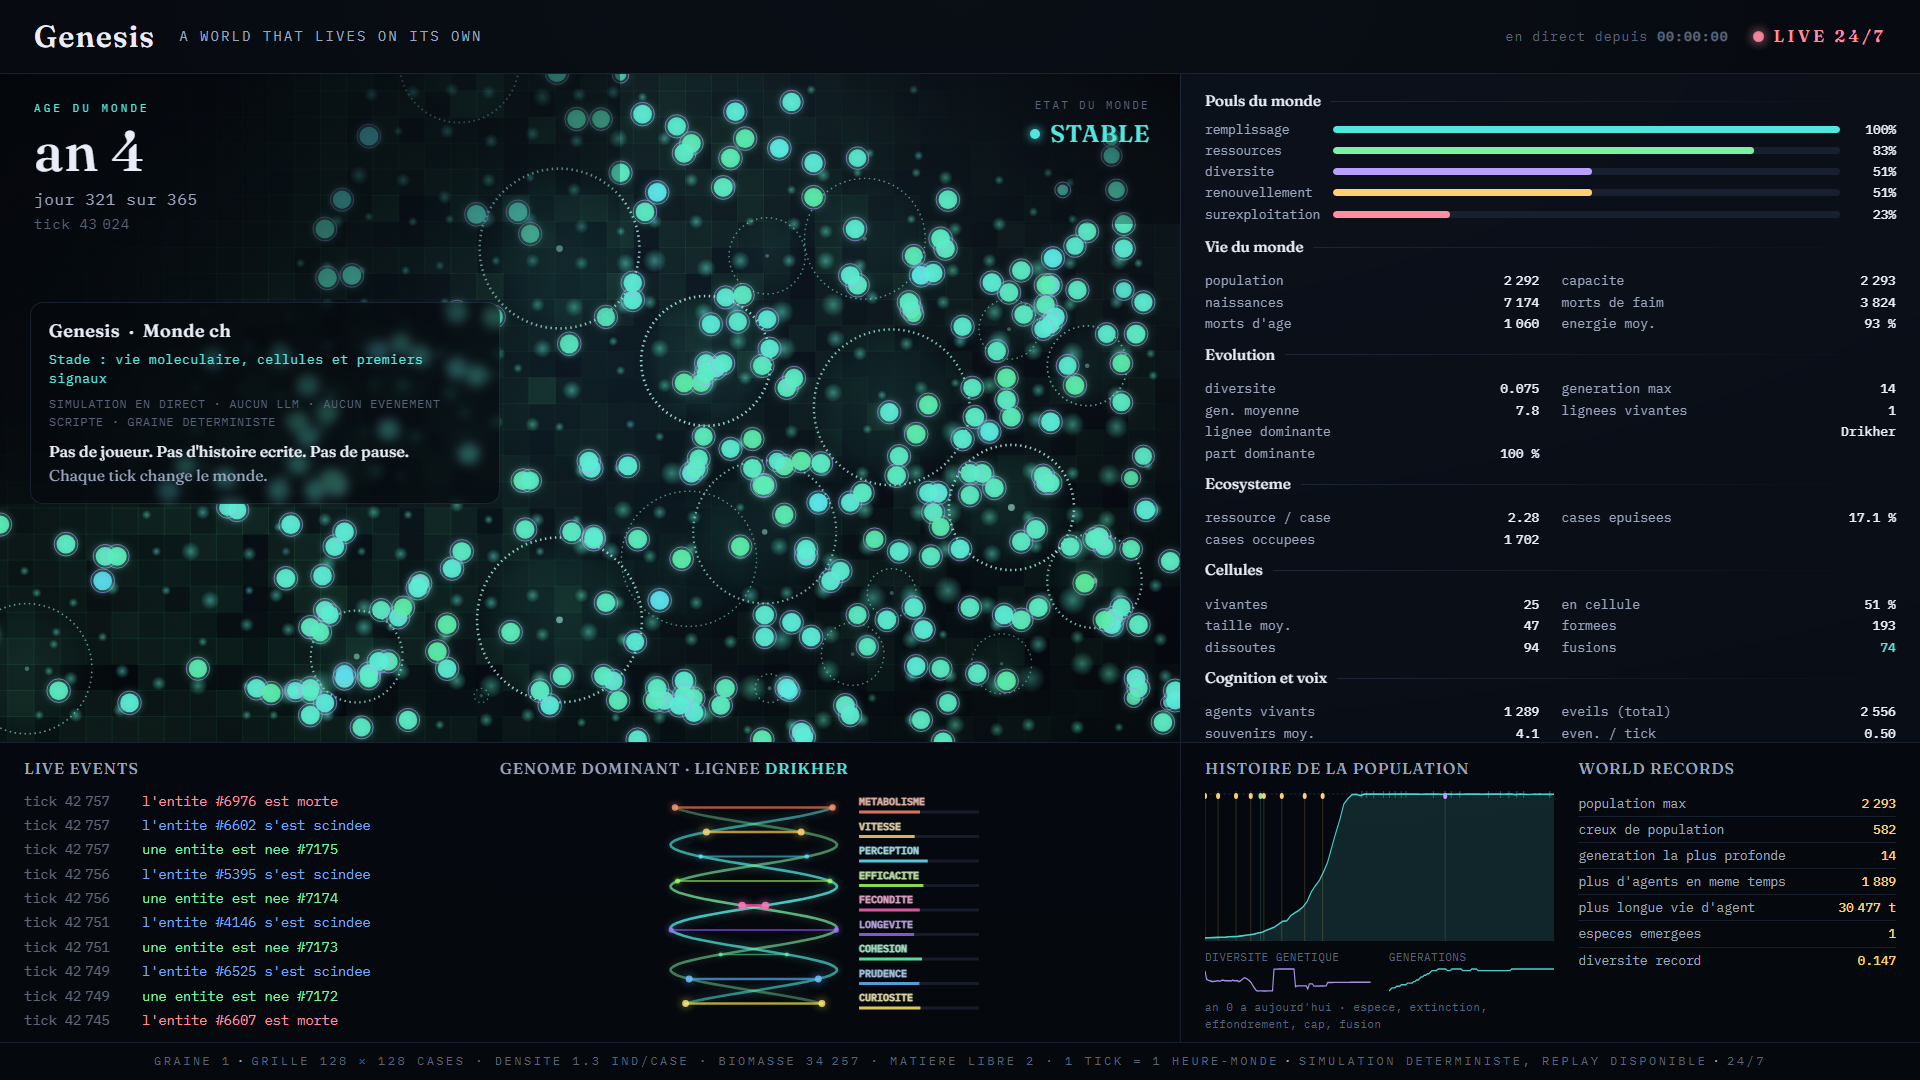
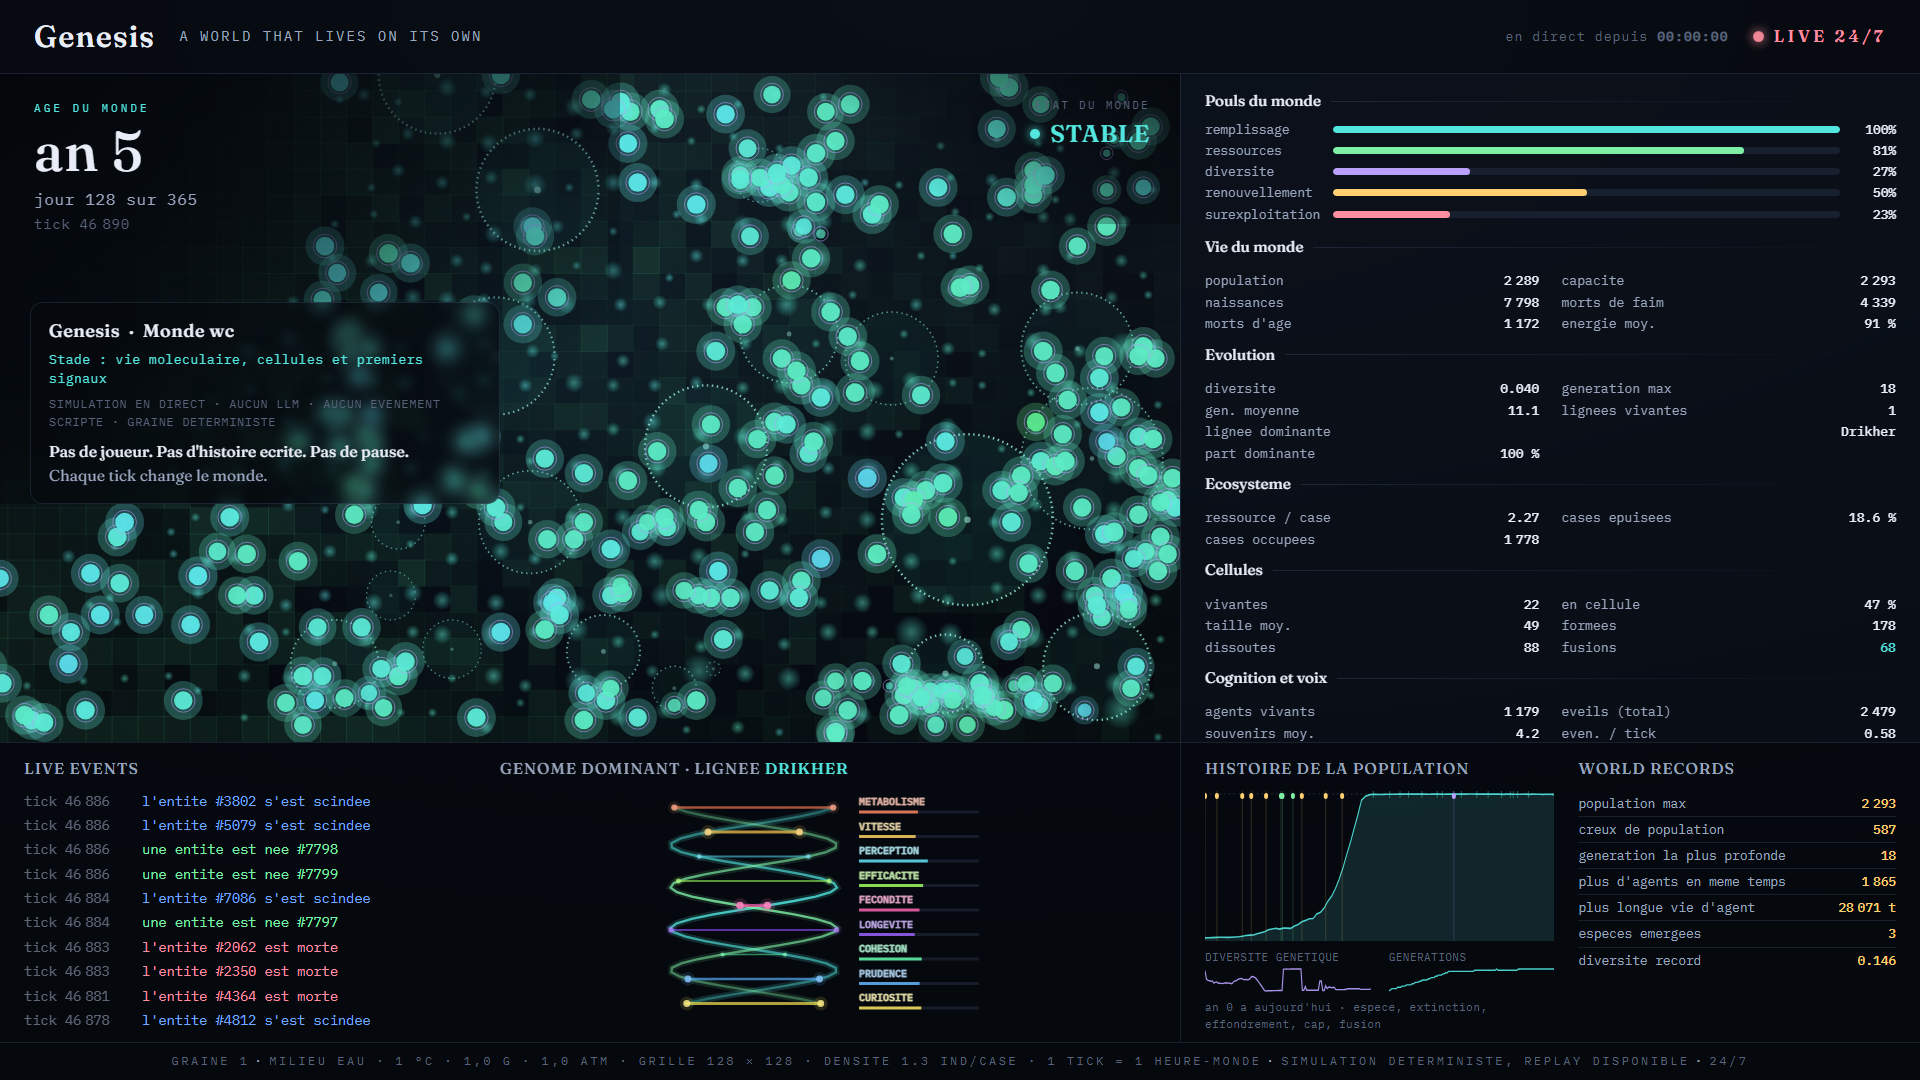
climat : temperature et gravite agissent enfin sur la simulation
`PlanetCfg` existait depuis longtemps mais n'etait qu'affichee. Elle
compte maintenant :

- Temperature : `base_burn *= 1 + temp_metab_slope * |temperature_c -
  temp_optimal_c|`. Un monde loin de son optimum thermique coute plus
  cher a habiter : plus de morts de faim, selection plus dure.
- Gravite : `move_cost *= gravity`. Un monde lourd favorise les corps
  lents et economes.

Nouvelles cles `[planet]` : `temp_optimal_c` (15), `temp_metab_slope`
(0,012 ; `0` = inerte, bouton d'A/B). Le defaut (15 °C = optimum, 1 g)
ne change rien : aucune regression, pas de bump de schema (config
seulement, pas d'etat). `worlds/w1` et `w4` rejouent deterministe OK
sans regeneration.

A/B graine 1, 50k ticks :
- monde a 2 °C : diversite genetique -34 % (0,099 -> 0,065), famine +8 %.
  Le surcout thermique homogeneise le genome.
- monde a 35 °C : famine +24 %, morts d'age -27 % (on meurt de faim avant
  de vieillir), 20 generations au lieu de 17, vitesse moyenne +36 %. Un
  monde frenetique qui evolue vite.
- monde a 1,6 g : famine +10 %, efficacite poussee vers le haut.

Meme graine, autre planete, autre vie.

`LiveState` gagne temperature_c / medium / gravity / pressure_atm ;
le bandeau du bas de l'overlay est mene par le climat (milieu, °C, g,
atm). Test `climate_shapes_the_world`. Determinisme 1 vs 8 threads
byte-identique (config defaut et config froide), 22 tests verts.

diff --git a/crates/genesis-cli/src/stream_template.html b/crates/genesis-cli/src/stream_template.html
@@ -568,12 +568,16 @@ function applyLive(L) {
   sc.className = 'statuschip ' + (map[L.status] || 'stable');
   document.getElementById('statusv').textContent = L.status || 'STABLE';
   document.getElementById('domname').textContent = L.dominant_lineage || '--';
-  // bandeau du bas : les constantes et grandeurs reelles du monde (pas de chiffre invente)
+  // bandeau du bas : les vraies constantes physiques du monde et ses grandeurs (aucun
+  // chiffre invente ; la temperature agit sur le metabolisme, la gravite sur le deplacement)
   const dens = L.occupied_cells ? (L.population / L.occupied_cells).toFixed(1) : '0';
+  const g = (L.gravity != null ? L.gravity : 1).toFixed(1).replace('.', ',');
+  const atm = (L.pressure_atm != null ? L.pressure_atm : 1).toFixed(1).replace('.', ',');
+  const tc = (L.temperature_c != null ? L.temperature_c : 15).toFixed(0);
   document.getElementById('barenv').textContent =
-    'grille ' + (L.grid ? L.grid[0] + ' × ' + L.grid[1] : '--') + ' cases  ·  densite ' + dens +
-    ' ind/case  ·  biomasse ' + fr(Math.round(L.biomass || 0)) + '  ·  matiere libre ' +
-    fr(Math.round(L.free_matter || 0)) + '  ·  1 tick = 1 heure-monde';
+    'milieu ' + (L.medium || 'eau') + '  ·  ' + tc + ' °C  ·  ' + g + ' g  ·  ' + atm + ' atm  ·  ' +
+    'grille ' + (L.grid ? L.grid[0] + ' × ' + L.grid[1] : '--') + '  ·  densite ' + dens +
+    ' ind/case  ·  1 tick = 1 heure-monde';
 
   // pouls
   const P = L.pulse || {};

diff --git a/crates/genesis-core/src/sim.rs b/crates/genesis-core/src/sim.rs
@@ -288,7 +288,9 @@ pub fn tick(world: &mut WorldState, cfg: &SimConfig) -> Vec<Event> {
     drop(_sp.take()); _sp = prof::Span::start(2);
     // -- Phase 4, mouvement. Chaque entite ne touche qu'elle-meme : parallele direct sur
     // le `Vec`, qui se decoupe parfaitement.
-    let move_cost = cfg.metabolism.move_cost;
+    // Le climat : la gravite rencherit le deplacement (un monde lourd favorise les corps
+    // lents et economes). `gravity = 1` (Terre) ne change rien.
+    let move_cost = cfg.metabolism.move_cost * cfg.planet.gravity.max(0.0);
     let sw = space.width as f32;
     let sh = space.height as f32;
     // Biologie de fond (tranche 8) : un corps use se traine.
@@ -319,7 +321,13 @@ pub fn tick(world: &mut WorldState, cfg: &SimConfig) -> Vec<Event> {
     // (`colony_support`), mange un peu moins et fatigue beaucoup moins la case partagee.
     let energy_ceiling = cfg.reproduction.energy_threshold * 2.0;
     let support_cap = coh.support_cap.max(0.001);
-    let base_burn = cfg.metabolism.base_burn;
+    // Le climat : un monde loin de la temperature optimale coute plus cher a habiter. Le
+    // surcout frappe la depense de base de toutes les entites, egalement. `temperature_c ==
+    // temp_optimal_c` (defaut) ou `temp_metab_slope == 0` : aucun effet.
+    let temp_factor = 1.0
+        + cfg.planet.temp_metab_slope.max(0.0)
+            * (cfg.planet.temperature_c - cfg.planet.temp_optimal_c).abs();
+    let base_burn = cfg.metabolism.base_burn * temp_factor;
     let eat_rate = cfg.metabolism.eat_rate;
     let strain_per_harvest = cfg.environment.strain_per_harvest;
     // Cognition (0.0.3) : seuils de choc, ecrits pour toutes les entites (graine d'un souvenir).

diff --git a/crates/genesis-core/tests/invariants.rs b/crates/genesis-core/tests/invariants.rs
@@ -560,6 +560,41 @@ fn a_world_knows_which_engine_made_it() {
 }
 
 #[test]
+fn climate_shapes_the_world() {
+    // Le climat (schema : config seulement, pas d'etat) agit vraiment sur le monde : un
+    // monde loin de sa temperature optimale voit plus de morts de faim. Effet inerte au
+    // defaut (`temperature_c == temp_optimal_c`), donc pas de regression. Deterministe.
+    let mut warm = SimConfig::default();
+    warm.planet.temperature_c = 15.0;
+    warm.planet.temp_optimal_c = 15.0;
+    let mut cold = warm.clone();
+    cold.planet.temperature_c = 0.0; // 15 degres sous l'optimum
+
+    let run = |cfg: &SimConfig| {
+        let mut w = WorldState::new(1, cfg);
+        for _ in 0..30_000 {
+            let _ = tick(&mut w, cfg);
+            if w.entities.is_empty() {
+                break;
+            }
+        }
+        (w.deaths_starvation, w.population())
+    };
+    let (warm_starv, warm_pop) = run(&warm);
+    let (cold_starv, cold_pop) = run(&cold);
+
+    assert!(warm_pop > 100 && cold_pop > 100, "un des deux mondes s'est effondre");
+    assert!(
+        cold_starv > warm_starv,
+        "le froid ne coute rien : {cold_starv} morts de faim contre {warm_starv} au chaud"
+    );
+
+    // Deterministe : meme config, meme monde.
+    let (a, _) = run(&cold);
+    assert_eq!(a, cold_starv, "climat non deterministe");
+}
+
+#[test]
 fn cells_merge_when_membranes_overlap() {
     // Fusion de cellules (schema v15) : deux membranes stables qui se chevauchent et se
     // ressemblent fusionnent. Il s'en produit reellement (graine 1) ; le compteur cumule

diff --git a/crates/genesis-core/src/config.rs b/crates/genesis-core/src/config.rs
@@ -87,19 +87,29 @@ impl Default for WorldCfg {
 #[derive(Debug, Clone, Serialize, Deserialize)]
 #[serde(default)]
 pub struct PlanetCfg {
-    /// Temperature moyenne de l'environnement, en degres Celsius.
+    /// Temperature moyenne de l'environnement, en degres Celsius. Constante sur la vie du
+    /// monde. Un monde loin de `temp_optimal_c` coute plus cher a habiter (voir
+    /// `temp_metab_slope`) : plus de morts de faim, selection plus dure sur l'efficacite.
     pub temperature_c: f32,
+    /// Temperature a laquelle le metabolisme est le moins cher.
+    pub temp_optimal_c: f32,
+    /// Surcout metabolique par degre d'ecart a l'optimum, en fraction. `0` = la temperature
+    /// est inerte (bouton d'A/B). A 0,012 et 12 degres d'ecart : +14 % de depense de base.
+    pub temp_metab_slope: f32,
     /// Milieu dans lequel baigne la vie : "eau", "acide", "air", ...
     pub medium: String,
-    /// Gravite, en multiples de celle de la Terre.
+    /// Gravite, en multiples de celle de la Terre. Multiplie le cout du deplacement : un
+    /// monde lourd favorise les corps lents et economes, un monde leger l'inverse.
     pub gravity: f32,
-    /// Pression, en atmospheres.
+    /// Pression, en atmospheres. Affichee, sans effet mecanise pour l'instant.
     pub pressure_atm: f32,
 }
 impl Default for PlanetCfg {
     fn default() -> Self {
         PlanetCfg {
             temperature_c: 15.0,
+            temp_optimal_c: 15.0,
+            temp_metab_slope: 0.012,
             medium: "eau".to_string(),
             gravity: 1.0,
             pressure_atm: 1.0,

diff --git a/crates/genesis-cli/src/live.rs b/crates/genesis-cli/src/live.rs
@@ -52,6 +52,12 @@ pub struct LiveState {
     pub grid: [u32; 2],
     /// Matiere structurelle libre (briques disponibles pour de nouveaux corps).
     pub free_matter: f32,
+    /// Le climat de la planete : temperature (degres Celsius), milieu, gravite (x Terre),
+    /// pression (atmospheres). Constants sur la vie du monde.
+    pub temperature_c: f32,
+    pub medium: String,
+    pub gravity: f32,
+    pub pressure_atm: f32,
 
     // -- Vie du monde
     pub population: u32,
@@ -481,6 +487,10 @@ pub fn write_live(
         status,
         grid: [world.space.width, world.space.height],
         free_matter: st.free_matter,
+        temperature_c: cfg.planet.temperature_c,
+        medium: cfg.planet.medium.clone(),
+        gravity: cfg.planet.gravity,
+        pressure_atm: cfg.planet.pressure_atm,
         population: st.population,
         births: st.births_total,
         deaths_starv: st.deaths_starvation,

diff --git a/BIBLE/00_INDEX.md b/BIBLE/00_INDEX.md
@@ -136,15 +136,20 @@ avantageuse. Sans environnement changeant, l'asexué gagne toujours.
 ### Paramètres planétaires (constantes du monde, pas des pressions dynamiques)
 
 Section `[planet]` de la config : **elle existe depuis 2026-09-01** (`PlanetCfg` :
-`temperature_c`, `medium`, `gravity`, `pressure_atm`). En 0.0.1 elle est seulement
-**affichée** dans le bandeau du lecteur, aucune influence sur la simulation (choix
-délibéré : ne pas rejouer le whack-a-mole d'équilibrage). Les jalons suivants la branchent :
+`temperature_c`, `medium`, `gravity`, `pressure_atm`). **Branchée sur la sim le 2026-09-02
+(température et gravité).** La température module la dépense métabolique de base :
+`base_burn *= 1 + temp_metab_slope * |temperature_c - temp_optimal_c|`. La gravité multiplie
+`move_cost`. Le défaut (15 °C = optimum, 1 g) est **inerte**, aucune régression ;
+`temp_metab_slope = 0` désactive l'effet thermique (bouton d'A/B). **A/B graine 1, 50k ticks :
+monde à 2 °C, diversité génétique -34 % (0,099 -> 0,065), morts de faim +8 % ; monde à 35 °C,
+morts de faim +24 %, morts d'âge -27 %, 20 générations au lieu de 17, vitesse moyenne +36 % ;
+monde à 1,6 g, morts de faim +10 %.** Une même graine sur une autre planète donne une autre
+vie. Config seulement, pas d'état, pas de bump de schéma. Test `climate_shapes_the_world`.
+Reste à brancher :
 
-- Température : module le métabolisme (courbe de performance thermique, froid et chaud
-  coûtent plus d'énergie).
 - Milieu (eau / acide / air) : change ce qui est comestible et l'efficacité métabolique.
-- Gravité : module `move_cost`, plafonne la taille corporelle (trait), contraint plus tard
-  les structures et le vol.
+- Gravité : plafonne aussi la taille corporelle (trait), contraindra plus tard les structures
+  et le vol.
 - Pression : efficacité métabolique, zones d'eau liquide, intensité de la météo, plus tard
   l'accès au feu donc à la technique.
 - Un cataclysme rare peut décaler ces constantes (volcanisme, impact).
@@ -226,6 +231,8 @@ Liste ouverte, tenue à jour au fil du projet (demande utilisateur, 2026-08-31 p
   - **Un monde qui ne s'arrete pas : `genesis continue` et `genesis serve` (2026-09-02).** `continue <monde> --ticks N` reprend depuis le dernier instantane et rejoue N ticks ; le journal et la serie temporelle continuent (verite du monde), la scene et les biographies sont refaites sur le segment recent (fenetre glissante de 500 frames). `serve <monde> [--rate ticks/s] [--port P] [--for T] [--step N]` : boucle continue qui avance par petits pas paces (environ une seconde de temps-monde par tour, defaut `--rate 30`, `0` = a fond), reecrit `live.json` / `scene.json` a chaque pas et les pages HTML lourdes au plus toutes les `--pages-every` secondes (defaut 15). `Sim::run` gagne `checkpoint: bool` (pas d'instantane a chaque pas en `serve`) ; `write_world_pages` ecrit un instantane au tick courant pour que meta, journal et instantane restent coherents (ce que `replay` compare). Verifie : `run(60k) + serve(--for 8k)` puis `replay` deterministe OK. `meta.json` gagne `agents_awoke_total` (cumule a travers les reprises). `lives.jsonl` borne (800 vies les plus longues), `notable.jsonl` reduit aux grands tournants (la chronique : genese, espece, extinction de lignee, effondrement, palier). A la reprise, le journal est tronque au dernier instantane : un arret brutal ne cree pas de doublons. Refactor : la boucle de tick est un `Sim`, la generation des pages un `write_world_pages`, le chargement pour reprise un `Resume` ; `AgentLife` / `LifeBeat` passent des `&'static str` a des enums (aller-retour JSON). Verifie : `run(40k)` et `run(25k)+continue(15k)` donnent un instantane final et un `events.jsonl` byte-identiques ; `run(10k)+serve(5 tranches)` rejoue deterministe OK. Aucun changement de schema moteur.
   - **L'overlay du direct 24/24 : `stream.html` (2026-09-02).** Un tableau de bord 1920x1080 pour une source navigateur OBS, servi par `genesis serve --port P` (`http://localhost:P/stream.html`). Une vue publique des donnees que Genesis produit deja, pas un systeme parallele : `live.rs` ecrit `live.json` (petit, relu toutes les 3 s), `scene.json` (derniere image du monde), `records.json` (records persistes et battus au fil de la vie : creux de population apres l'installation a 500, plus longue vie d'agent et sa lignee, especes emergees, diversite record...). `http_serve.rs` : serveur de fichiers minimal (GET, un thread par requete, anti remontee de chemin, `no-store` sur les JSON volatils). L'overlay : horloge de l'age du monde, panneau d'identite (stade dit sans le farder, aucun LLM, aucun evenement scripte, graine deterministe) et etat du monde (stable / en croissance / en declin / eteint, d'apres la tendance recente), pouls du monde (cinq jauges qui racontent : remplissage contre capacite, ressources restantes, diversite rapportee au record, part de naissances, surexploitation), quatre groupes de stats, fil qui garde toute la chronique en bas, histoire de la population avec sparklines diversite et generations, panneau des records avec banniere quand un record tombe, cartes d'evenements riches par type de tournant ; scene animee qui suit le centre de masse (cadrage cover). `stream_html.rs` embarque `live.json` / `scene.json` en repli pour un rendu correct en `file://`. Identite bioluminescente, Fraunces + IBM Plex Mono. Aucun changement moteur. Suit le brief `Stream_Twitch/` (qui sort du depot : notes de travail). Pas de faux evenement, pas de chiffre decoratif.
   - **`serve` tenable des mois sans surveillance (2026-09-02).** Trois fuites bornees pour un monde qui ne s'arrete jamais : les biographies terminees sont oubliees au fil de l'eau (au-dela de 200, pas seulement a la reprise ; le compte d'eveils passe par `Sim.awoke_count`), `series` est plafonnee a 4000 lignes (le quart le plus ancien decime), on ne garde que les 12 instantanes les plus recents (`WorldDir::prune_snapshots`). `events.jsonl` ne recoit plus les `ReplicationFailed` (~90 % du volume au plateau, deja dans `repro_blocked_materials`) : journal ~20x plus leger, monde identique (1 vs 8 threads byte-identique, `replay` OK). **Renaissance** : `serve --restart [--max-years Y]` fait repartir une nouvelle graine au meme endroit quand le monde meurt ou vieillit ; `records.json` se transmet de monde en monde (l'histoire sportive de la graine). `birth_world` factorise la genese. Reste : rotation du journal (pyramide temporelle) pour l'echelle des annees.
+
+- **Le climat branche sur la sim : temperature et gravite (2026-09-02).** `PlanetCfg` existait depuis longtemps (affichee seulement). Elle agit maintenant : `base_burn *= 1 + temp_metab_slope * |temperature_c - temp_optimal_c|` (un monde loin de son optimum thermique coute plus cher a habiter), `move_cost *= gravity` (un monde lourd favorise les corps lents et economes). Nouvelles cles `[planet]` : `temp_optimal_c` (15), `temp_metab_slope` (0,012 ; `0` = inerte, bouton d'A/B). Le defaut (15 °C = optimum, 1 g) ne change rien, aucune regression, pas de bump de schema (config seulement). **A/B graine 1, 50k ticks : monde a 2 °C, diversite -34 % (0,099 -> 0,065), famine +8 % ; monde a 35 °C, famine +24 %, morts d'age -27 % (on meurt de faim avant de vieillir), 20 generations au lieu de 17, vitesse moyenne +36 % ; monde a 1,6 g, famine +10 %.** Meme graine, autre planete, autre vie. `stream.html` : bandeau du bas mene par le climat (milieu, °C, g, atm). Test `climate_shapes_the_world`. Determinisme 1 vs 8 threads byte-identique (config par defaut et config froide), rejeu OK, 22 tests verts. Reste : le milieu (comestible / efficacite), la pression, la taille corporelle plafonnee par la gravite.
 
 - **0.0.2 tranche 2, etape 2b : la fusion de cellules (2026-09-02).** Schema v15. Deux cellules stables dont les membranes se chevauchent (`distance(centres) < (r1 + r2) * fuse_overlap`, 0,5) et dont les genomes moyens se ressemblent (`L1 < fuse_kin`, 0,9) n'en font plus qu'une : la plus grosse garde son id, sa date de formation et son histoire, la petite y disparait, ses membres sont retaggues. Aucune regle ne la nomme : c'est une condition geometrique et genetique que le monde franchit quand deux cellules parentes derivent l'une dans l'autre (T-7). Phase 5b (3b), sequentiel sans RNG, ordre stable (cellules triees par id), une fusion par cellule et par tick. `EventKind::CellsMerged { cell, absorbed, size }` (saillance 232), `WorldState.cells_merged_total`, bloc `[cells]` : `fuse` (A/B), `fuse_overlap`, `fuse_kin`. Chronique + carte plein ecran de l'overlay (teinte cyan, halo) + stat « fusions de cellules ». Test `cells_merge_when_membranes_overlap`. **A/B graine 1, 60k ticks, contre `fuse = false` : dissolutions de cellule -36 % (une petite cellule en peine fusionne au lieu de mourir), diversite genetique finale -12 % (0,059 -> 0,052 : la fusion consolide), famine +11 %, naissances +5 %.** La cellule devient un niveau d'organisation qui s'agrege. Effet reel et mesure (T-16). Determinisme byte-identique 1 vs 8 threads (graines 1 et 42), rejeu OK, 21 tests verts. `worlds/w2` : 120 fusions ; w4 : 83 ; w1 : 62 ; w3 : 0 (meurt trop tot). Reste de l'escalier : etape 2 (de-simulation des membres, bilan molecule) toujours deferee a 0.0.6.
 

diff --git a/BIBLE/03_DATA_MODEL.md b/BIBLE/03_DATA_MODEL.md
@@ -394,6 +394,14 @@ Toutes ces valeurs sont des points de départ, à mesurer et ajuster. Le princip
 partir avec des nombres, pas avec "configurable".
 
 ```toml
+[planet]                              # constantes physiques du monde (branchées 2026-09-02)
+temperature_c    = 15.0               # °C ; s'écarter de temp_optimal_c renchérit base_burn
+temp_optimal_c   = 15.0
+temp_metab_slope = 0.012              # surcoût métabolique par °C d'écart (0 = inerte)
+gravity          = 1.0                # x Terre ; multiplie move_cost
+medium           = "eau"             # affiché, sans effet mécanisé pour l'instant
+pressure_atm     = 1.0               # idem
+
 [time]
 tick_duration_seconds        = 3600   # 1 tick = 1 heure-monde en 0.0.1
 target_ticks_per_real_second = 60     # débit de calcul visé (ticks par seconde réelle),
